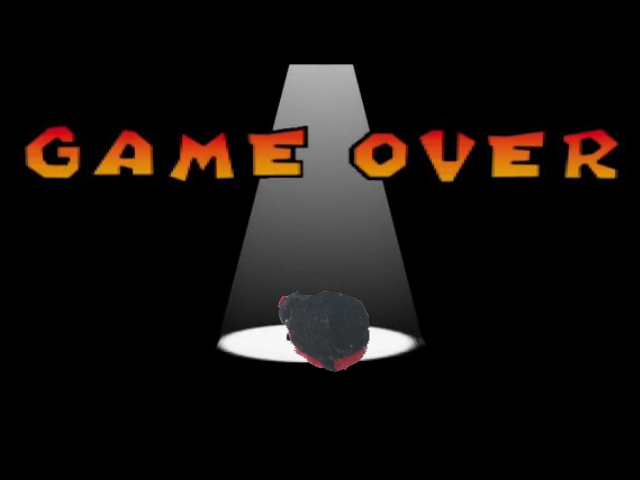
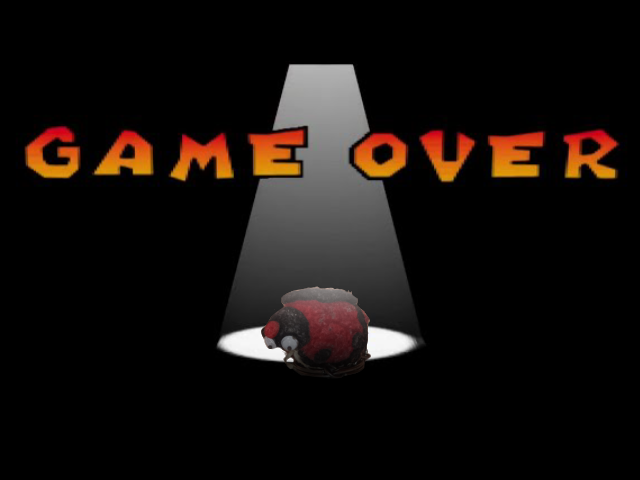
lien rejouer + liens sur les clics de refaits + ucperd et ucgagner

Changed region(s): [[0.4062, 0.5938, 0.5938, 0.7812]]

diff --git a/LouvreHeist/UCDialogue.xaml b/LouvreHeist/UCDialogue.xaml
@@ -16,9 +16,9 @@
             </Rectangle>
         </Viewbox>
         <Label x:Name="labDialoguePresentation" Margin="0,0,0,30" FontSize="20" FontFamily="Impact" VerticalAlignment="Bottom" HorizontalAlignment="Center"/>
-        <Label Content="Justin" HorizontalAlignment="Left" Margin="40,0,0,50" VerticalAlignment="Bottom" Height="36" Width="53" FontSize="14" FontWeight="Bold"/>
+        <Label Content="Justin" Margin="40,0,0,50" FontSize="14" FontWeight="Bold" Height="36" VerticalAlignment="Bottom" HorizontalAlignment="Left" Width="53"/>
         <Button x:Name="butSuite"  HorizontalAlignment="Right" Margin="0,0,10,104" VerticalAlignment="Bottom" Click="butSuite_Click" />
-        <Image x:Name="imgJustinDialogue" Margin="0,90,0,0" Source="/images/JustinDialogue1.png" Stretch="Fill" HorizontalAlignment="Center" VerticalAlignment="Top" Height="256" Width="282"/>
+        <Image x:Name="imgJustinDialogue" Margin="259,84,259,110" Source="/images/JustinDialogue1.png" Stretch="Fill" Height="256" Width="282" MinHeight="100" MinWidth="100"/>
 
     </Grid>
 </UserControl>

diff --git a/LouvreHeist/UCPerd.xaml b/LouvreHeist/UCPerd.xaml
@@ -7,9 +7,12 @@
              mc:Ignorable="d" 
              d:DesignHeight="450" d:DesignWidth="800">
     <Canvas>
+        <Canvas.Background>
+            <ImageBrush ImageSource="/images/GameOver.png"/>
+        </Canvas.Background>
 
-        <Image x:Name="imgGameOver" Height="450" Source="/images/GameOver.png" Stretch="Fill" Width="800" HorizontalAlignment="Center" VerticalAlignment="Top"/>
-        <Button x:Name="butRejouer" Content="Rejouer" HorizontalAlignment="Left" VerticalAlignment="Center" Height="30" Width="90" Canvas.Left="274" Canvas.Top="379"/>
+
+        <Button x:Name="butRejouer" Content="Rejouer" HorizontalAlignment="Left" VerticalAlignment="Center" Height="30" Width="90" Canvas.Left="274" Canvas.Top="379" Click="butRejouer_Click"/>
         <Button x:Name="butQuitter" Content="Quitter" HorizontalAlignment="Left" VerticalAlignment="Center" Height="30" Width="102" Canvas.Left="434" Canvas.Top="379"/>
     </Canvas>
 </UserControl>

diff --git a/LouvreHeist/UCGagner.xaml b/LouvreHeist/UCGagner.xaml
@@ -7,6 +7,11 @@
              mc:Ignorable="d" 
              d:DesignHeight="450" d:DesignWidth="800">
     <Grid>
-            
+        <Grid.Background>
+            <ImageBrush ImageSource="/images/Gagner.png"/>
+        </Grid.Background>
+        <Button Content="Quitter" HorizontalAlignment="Left" Margin="416,359,0,0" VerticalAlignment="Top"/>
+
+
     </Grid>
 </UserControl>

diff --git a/LouvreHeist/MainWindow.xaml.cs b/LouvreHeist/MainWindow.xaml.cs
@@ -33,24 +33,21 @@ namespace LouvreHeist
         public MainWindow()
         {
             InitializeComponent();
-            UCDemarrage uc = new UCDemarrage();
-
-
+            UCDemarrage uc = new UCDemarrage(this);
             ZoneJeu.Content = uc;
-            uc.butStart.Click += AfficheUCTenue;
+
 
 
         }
         public static string Perso { get; set; }
 
-        private void AfficheUCTenue(object sender, RoutedEventArgs e)
+        public void AfficheUCTenue()
           {
-              UCTenue uc = new UCTenue();
+              UCTenue uc = new UCTenue(this);
               ZoneJeu.Content = uc;
-              uc.butValiderTenue.Click += AfficheUCDate;
           }
 
-          private void AfficheUCDate(object sender, RoutedEventArgs e)
+          public void AfficheUCDate()
           {
               UCDate uc = new UCDate(this);
               ZoneJeu.Content = uc;
@@ -75,7 +72,7 @@ namespace LouvreHeist
 
         public void AfficheUCPerd()
         {
-            UCPerd uc = new UCPerd();
+            UCPerd uc = new UCPerd(this);
             ZoneJeu.Content = uc;
         }
         public void AfficheUCGagner()

diff --git a/LouvreHeist/UCTenue.xaml.cs b/LouvreHeist/UCTenue.xaml.cs
@@ -20,9 +20,11 @@ namespace LouvreHeist
     /// </summary>
     public partial class UCTenue : UserControl
     {
-        public UCTenue()
+        private MainWindow _mainWindow;
+        public UCTenue(MainWindow mainWindow)
         {
             InitializeComponent();
+            _mainWindow = mainWindow;
             labDialoguePresentation.Content = MainWindow.DIALOGUE[MainWindow.indiceDialogue];
             MainWindow.indiceDialogue++;
         }
@@ -30,7 +32,7 @@ namespace LouvreHeist
 
         private void butValiderTenue_Click(object sender, RoutedEventArgs e)
         {
-            
+            _mainWindow.AfficheUCDate();
         }
 
         private void tenue1_Click(object sender, RoutedEventArgs e)

diff --git a/LouvreHeist/UCDemarrage.xaml.cs b/LouvreHeist/UCDemarrage.xaml.cs
@@ -20,14 +20,16 @@ namespace LouvreHeist
     /// </summary>
     public partial class UCDemarrage : UserControl
     {
-        public UCDemarrage()
+        private MainWindow _mainWindow;
+        public UCDemarrage(MainWindow mainWindow)
         {
             InitializeComponent();
+            _mainWindow = mainWindow;
         }
 
         private void butStart_Click(object sender, RoutedEventArgs e)
         {
-
+            _mainWindow.AfficheUCTenue();
         }
     }
 }

diff --git a/LouvreHeist/UCPerd.xaml.cs b/LouvreHeist/UCPerd.xaml.cs
@@ -20,9 +20,16 @@ namespace LouvreHeist
     /// </summary>
     public partial class UCPerd : UserControl
     {
-        public UCPerd()
+        private MainWindow _mainWindow;
+        public UCPerd(MainWindow mainWindow)
         {
             InitializeComponent();
+            _mainWindow = mainWindow;
+        }
+
+        private void butRejouer_Click(object sender, RoutedEventArgs e)
+        {
+            _mainWindow.AfficheUCTenue();
         }
     }
 }
